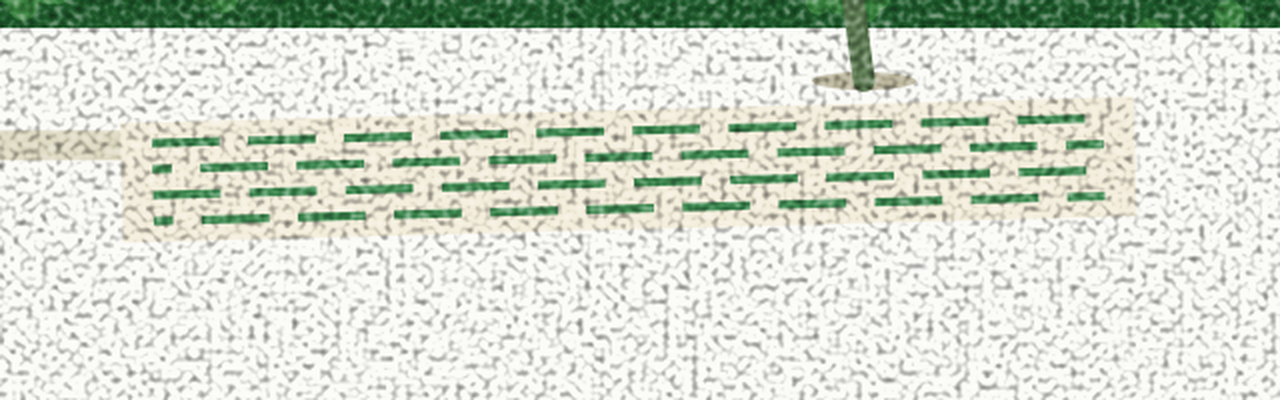
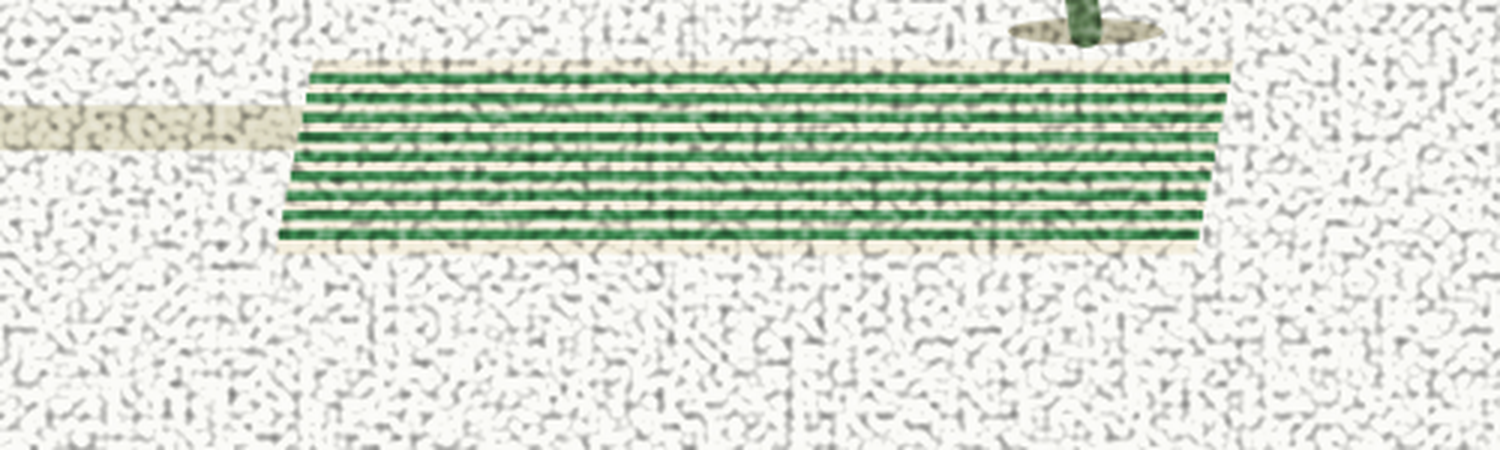
Serviette : rayures continues fines et serrées, à trame égale
Troisième version de la serviette, la bonne parce que relevée et non
interprétée : neuf rayures vertes continues au pas de H/10, le trait valant
la moitié du pas — autant de vert que de blanc, si bien que le tapis lit
« vert rayé » de loin, comme sur le modèle. Un léger biais en
parallélogramme la couche au sol.

Les deux essais précédents, consignés : des bandes pleines alternées
faisaient un tapis à moitié vert ; des tirets épars sur fond crème
faisaient un crème tamponné de vert. Compter les rayures du modèle aurait
évité les deux.

Claude-Session: https://claude.ai/code/session_015un2t2xRvThoKm9jAu6CXK

diff --git a/illustration/personnages.py b/illustration/personnages.py
@@ -198,49 +198,46 @@ def serviette_rayee_corps(dx, dy):
 
 def serviette_rayee(ox, oy, k=1.3, indent=4):
     u"""
-    La serviette rayee, SEULE - l'element se regle avant qu'on y rasseye
-    quiconque.
+    La serviette rayee, regardee de pres cette fois.
 
-    CE QUE MONTRE LE MODELE, regarde de pres cette fois
-      Le fond est CREME, pas vert : la serviette est claire, et le vert n'y
-      est que par TIRETS - des lignes fines et interrompues, cinq rangées,
-      qui suivent la longueur du tissu. Ma premiere version alternait des
-      bandes vertes pleines et le tapis devenait a moitie vert : c'est ce
-      vert-la qui ne correspondait a rien.
+    CE QUE MONTRE LE MODELE
+      Des rayures CONTINUES, FINES et SERREES : une dizaine sur la hauteur
+      du tapis, a trame presque egale - autant de vert que de blanc. De
+      loin, le tapis lit VERT RAYE ; ma version a tirets espaces sur fond
+      creme lisait creme taponne de vert, rien a voir.
 
-    LES TIRETS
-      Chaque rangee est un trait a stroke-dasharray : le tiret fait ~28
-      unites, le creux ~12. Le pointille est un attribut du trait, pas un
-      filtre - il ne pose aucun des problemes des filtres dans les groupes
-      tournes, et la rotation est de toute facon calculee en coordonnees.
+      Et le tapis n'est pas un rectangle : un leger BIAIS en
+      parallelogramme - le bord haut decale vers la droite - le couche au
+      sol sans vraie perspective, comme la serviette de la premiere
+      reference etait inclinee d'un degre et demi.
+
+    RELEVE (1232 x 928) : ~210 x 44 px, soit 0.17 x 0.047 du cadre ;
+    une dizaine de rayures -> un pas d'environ 4.4 px la-bas, 6.5 ici.
     """
     e = " " * indent
-    pivot = math.radians(-1.5)
-    ca, sa = math.cos(pivot), math.sin(pivot)
+    L2, H = 118.0, 50.0          # demi-longueur, hauteur
+    BIAIS = 10.0                 # le decalage du bord haut, vers la droite
 
-    def R(x, y):
-        return (ox + (x * ca - y * sa) * k, oy + (x * sa + y * ca) * k)
+    def P(x, y):
+        # y va de 0 (bord pres) a -H (bord loin) ; le decalage suit
+        return (ox + (x + BIAIS * (-y / H)) * k, oy + y * k)
 
-    L2, H = 195.0, 46.0          # demi-longueur, hauteur du tissu
-    coins = [R(-L2, -H), R(L2, -H), R(L2, 0), R(-L2, 0)]
+    coins = [P(-L2, -H), P(L2, -H), P(L2, 0), P(-L2, 0)]
     out = [u'<path d="M%.1f %.1f L%.1f %.1f L%.1f %.1f L%.1f %.1f Z" '
            u'fill="%s"/>'
            % (coins[0][0], coins[0][1], coins[1][0], coins[1][1],
               coins[2][0], coins[2][1], coins[3][0], coins[3][1], CREME)]
 
-    # Quatre rangees de tirets FINS, espacees d'un bon double du trait :
-    # serrees et epaisses, elles fusionnaient en paves verts. Et les tirets
-    # d'une rangee sur deux sont DECALES d'une demi-periode, sinon ils
-    # s'alignent en colonnes et le tissu devient un damier.
-    marge_h, marge_v = 12.0, 8.0
-    for i in range(4):
-        y = -H + marge_v + (H - 2 * marge_v) * i / 3.0
-        A, Bp = R(-L2 + marge_h, y), R(L2 - marge_h, y)
+    # NEUF rayures continues : le pas vaut H/10, le trait la moitie du pas -
+    # autant de vert que de blanc, c'est la trame du modele.
+    n = 9
+    pas = H / (n + 1.0)
+    for i in range(1, n + 1):
+        y = -H + pas * i
+        A, Bp = P(-L2, y), P(L2, y)
         out.append(u'<path d="M%.1f %.1f L%.1f %.1f" stroke="%s" '
-                   u'stroke-width="%.1f" stroke-dasharray="%.1f %.1f" '
-                   u'stroke-dashoffset="%.1f" fill="none"/>'
-                   % (A[0], A[1], Bp[0], Bp[1], VERT_OBJET, 3.2 * k,
-                      26 * k, 11 * k, (i % 2) * 18.5 * k))
+                   u'stroke-width="%.1f" fill="none"/>'
+                   % (A[0], A[1], Bp[0], Bp[1], VERT_OBJET, pas * 0.52 * k))
 
     return u"%s<g inkscape:label=\"Serviette rayee\">\n%s\n%s</g>" % (
         e, "\n".join(u"%s  %s" % (e, x) for x in out), e)

diff --git a/illustration/METHODE.md b/illustration/METHODE.md
@@ -68,7 +68,7 @@ une fois l'image sous les yeux.
 | **Serviette** | un **rectangle** de 0,40 × 0,15 du cadre, incliné de 1,5° à peine, **pourtour blanc extérieur**. Aucune fuite : l'image est plate. |
 | **Placement** | parasol ancré à (0,105 W ; 0,312 H) — **juste sous l'horizon, toile dans le ciel**. Serviette centrée à (0,263 W ; 0,414 H). |
 | **Haie** (2ᵉ référence) | masse pleine, ciel **54 %**, haie **27 %**, sable **19 %**. Touffes de **12 à 22 px** sur 1800 — 3,3 fois plus petites que l'ancien buisson. |
-| **Serviette rayée** (5ᵉ référence) | fond **crème**, le vert seulement en **tirets** : 4 rangées fines (trait 3,2, tiret 26 / creux 11), décalées d'une demi-période une rangée sur deux. Des bandes vertes pleines rendaient le tapis à moitié vert. |
+| **Serviette rayée** (5ᵉ référence) | rayures **continues, fines et serrées** : 9 traits verts au pas de H/10, trait = la moitié du pas — autant de vert que de blanc, le tapis lit *vert rayé* de loin. Léger biais en parallélogramme. ~0,17 × 0,047 du cadre. |
 | **Verge + coins d'herbe** | construits sur un contresens (« le vert au sol » désignait la serviette), **éteints** (`AVEC_SOL_VERT = False`) mais conservés dans `herbe.sol_vert()`. |
 | **Herbe pleine largeur** (3ᵉ référence) | retirée : elle fermait l'image comme un muret. `AVEC_HERBE`. |
 | **Personnages** (5ᵉ référence) | des **silhouettes** : une couleur corail, aucun visage, un accent par figure (short, haut clair). Toute la lecture est dans la **posture**. Membres fuselés + lissés, ballon en croissants par booléens, serviette rayée en bandes pleines. |
@@ -201,10 +201,11 @@ bâton.
 référence fait court (≈ 0,1–0,25 de la bande) et dense (≈ 4,6 px). C'est la
 proximité des brins qui fait la matière, pas leur taille.
 
-**Des rayures trop serrées fusionnent en pavés.** Cinq rangées de tirets à
-un écart inférieur au double du trait donnaient des blocs verts. Quatre
-rangées fines, espacées, et les tirets décalés d'une demi-période une rangée
-sur deux — alignés, ils font un damier.
+**Une trame se relève, elle ne s'interprète pas.** La serviette a été faite
+trois fois : bandes vertes pleines (tapis à moitié vert), puis tirets épars
+sur fond crème (crème tamponné de vert), avant de regarder vraiment : des
+rayures **continues, fines, serrées**, à trame égale vert/blanc. Compter les
+rayures du modèle aurait évité les deux premiers essais.
 
 **Le vent est global, le fouillis est local.** Les brins penchent tous du
 même côté — un biais commun de 0,30 rad — avec leur désordre individuel
